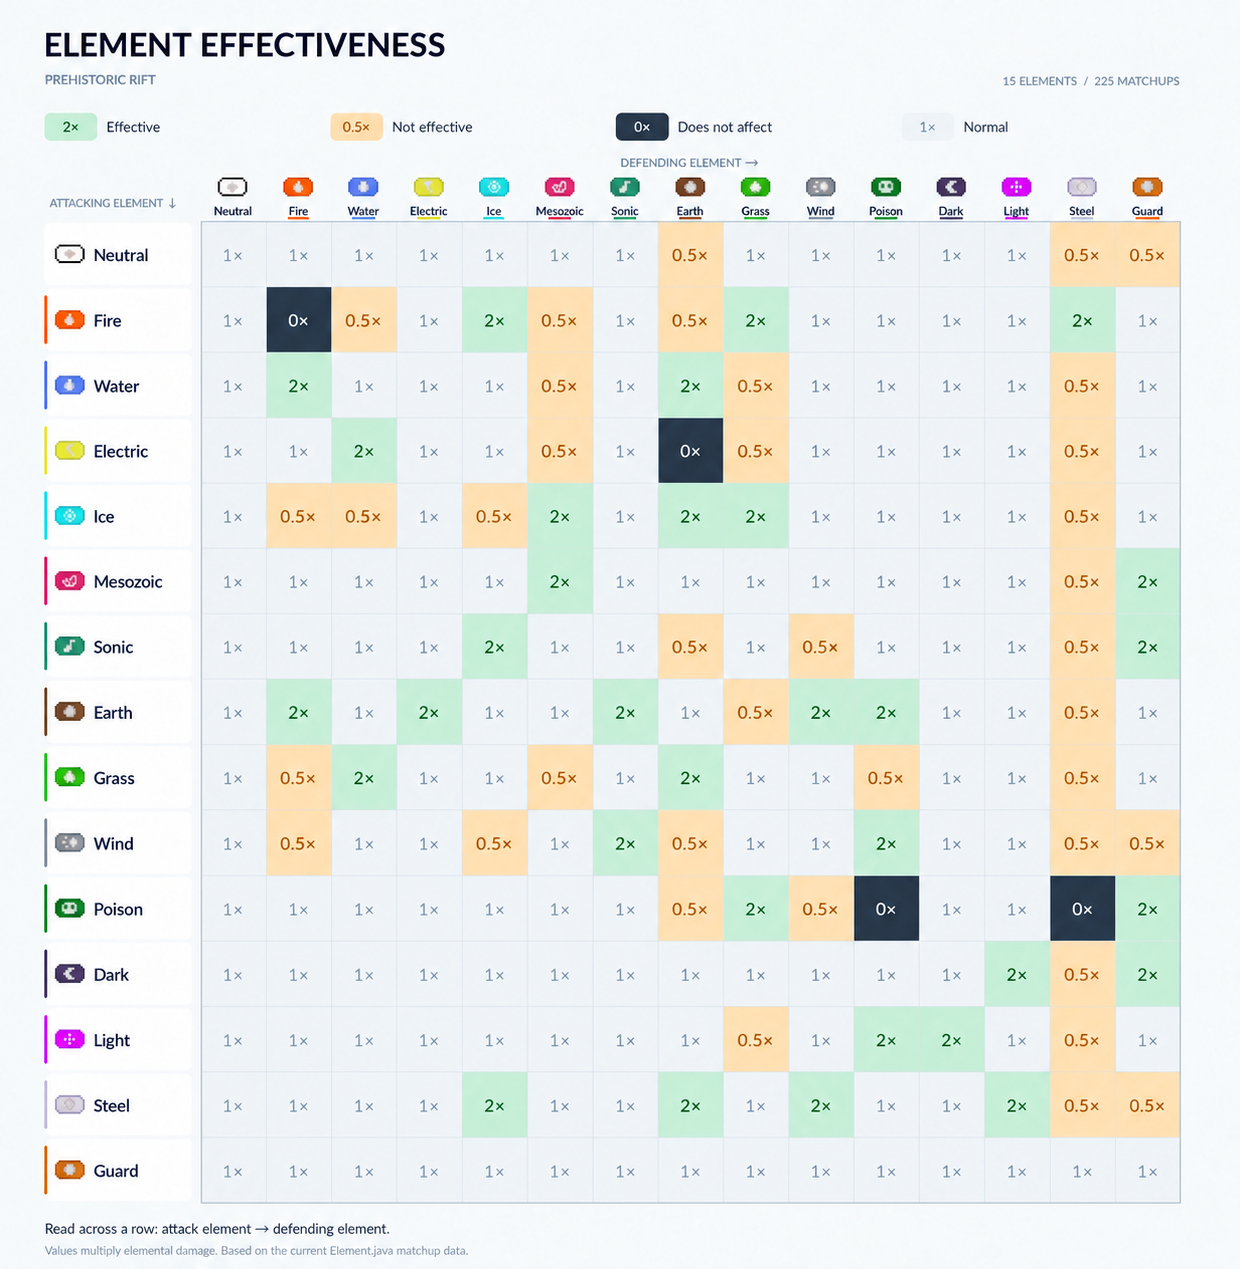
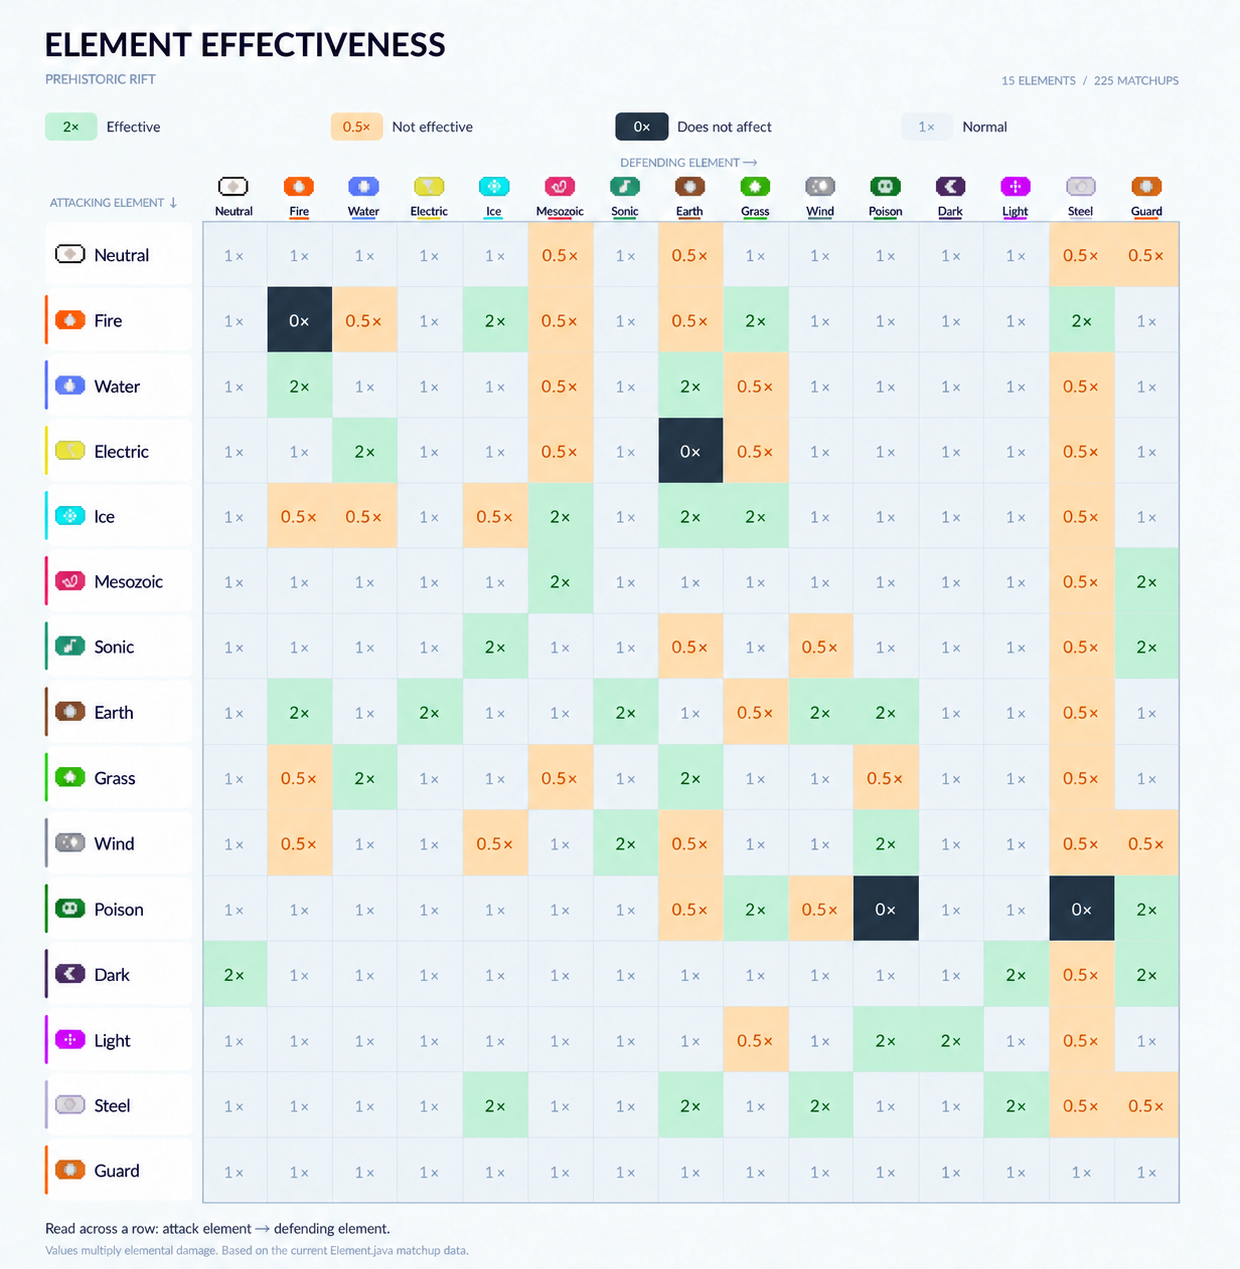
totally last changes to type chart

diff --git a/src/main/java/anightdazingzoroark/prift/api/creature/Element.java b/src/main/java/anightdazingzoroark/prift/api/creature/Element.java
@@ -12,10 +12,16 @@ import java.util.Set;
  * should be obvious to explain lol
  * */
 public enum Element {
-    //no weaknesses nor resistances lol
+    //no resistances nor super effectivenesses lol
     NEUTRAL(
             0xFFFFFF,
-            Set.of(),
+            new DeferredElementSet() {
+                @Override
+                @NotNull
+                protected Set<Element> elements() {
+                    return Set.of(Element.DARK);
+                }
+            },
             Set.of(),
             Set.of()
     ),
@@ -101,7 +107,7 @@ public enum Element {
                 @Override
                 @NotNull
                 protected Set<Element> elements() {
-                    return Set.of(Element.FIRE, Element.WATER, Element.ELECTRIC, Element.GRASS);
+                    return Set.of(Element.NEUTRAL, Element.FIRE, Element.WATER, Element.ELECTRIC, Element.GRASS);
                 }
             },
             Set.of()
